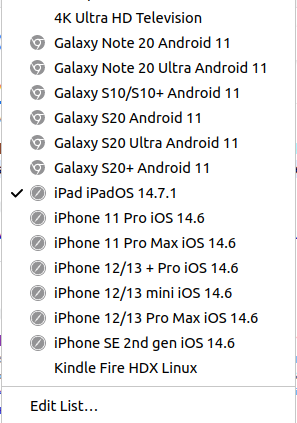
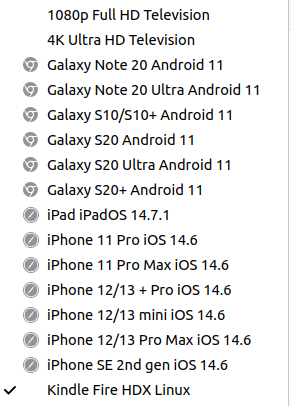
adding compatability in img + small  fixes

Changed region(s): [[0.0, 0.0, 1.0, 1.0], [0.0928, 0.9458, 0.6495, 0.9754]]

diff --git a/readme.md b/readme.md
@@ -5,7 +5,8 @@ PHP, HTML, CSS, JavaScript, Swiper.js, jQuery, Ajax, MySql.
 
 Adaptive's been made for the next devices:
 
-../img/compatibility.png
+![alt text](./img/compatibility.png)
+
 
 
 Task: 
